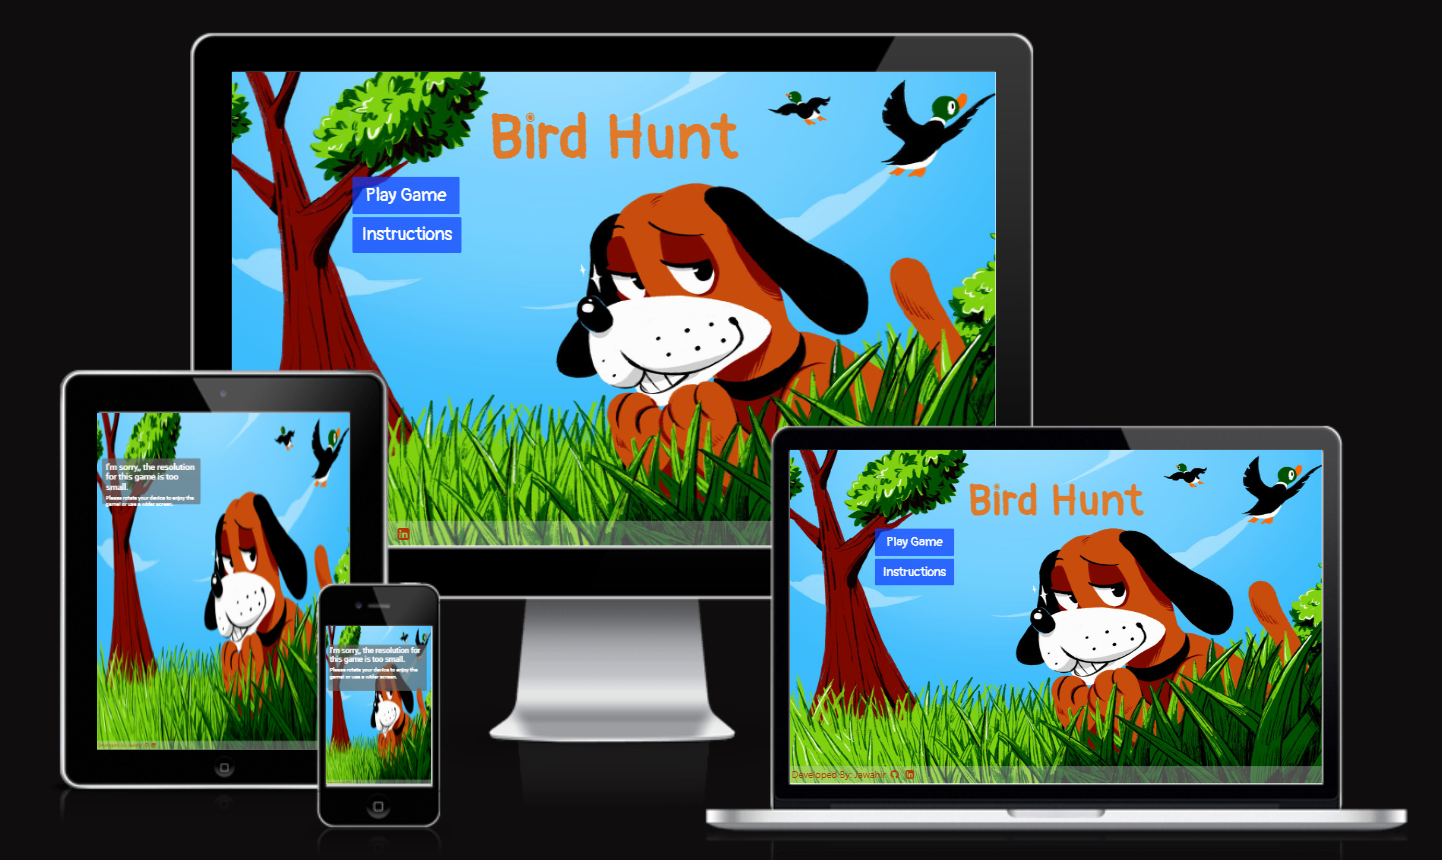
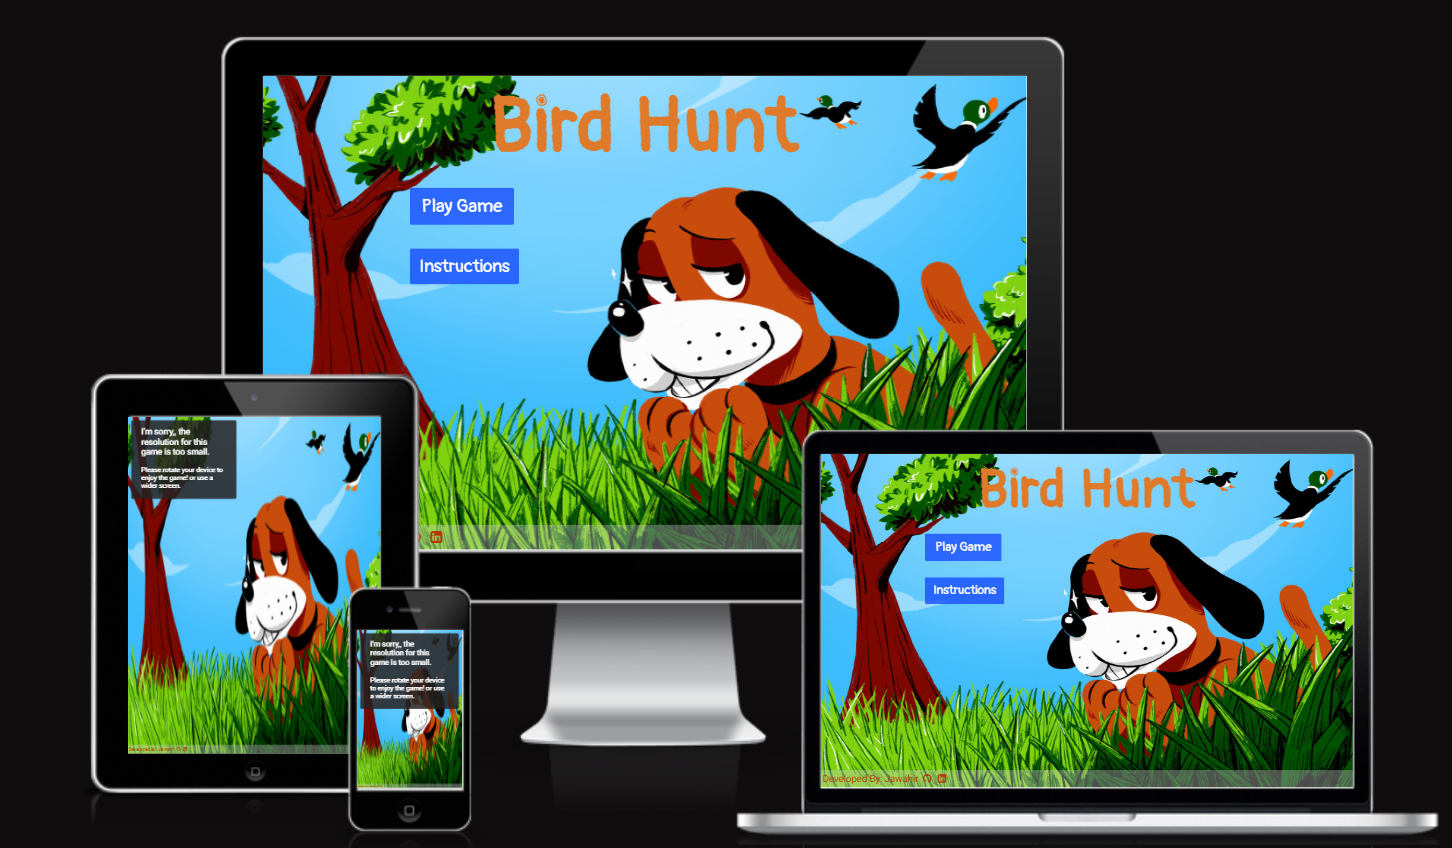
updating readm file

diff --git a/index.html b/index.html
@@ -8,8 +8,6 @@
   <!-- Font Awesome CDN -->
   <link rel="stylesheet" href="https://maxcdn.bootstrapcdn.com/font-awesome/4.7.0/css/font-awesome.min.css"
     type="text/css">
-  <link href="https://cdn.jsdelivr.net/npm/bootstrap@5.3.0-alpha3/dist/css/bootstrap.min.css" rel="stylesheet"
-    integrity="sha384-KK94CHFLLe+nY2dmCWGMq91rCGa5gtU4mk92HdvYe+M/SXH301p5ILy+dN9+nJOZ" crossorigin="anonymous">
   <link href="https://cdn.jsdelivr.net/npm/bootstrap@5.2.3/dist/css/bootstrap.min.css" rel="stylesheet">
   <script src="https://cdn.jsdelivr.net/npm/bootstrap@5.2.3/dist/js/bootstrap.bundle.min.js"></script>
   <link rel="stylesheet" href="assets/css/style.css">
@@ -19,9 +17,11 @@
 <body class="bg-main-page">
 
 
-  <div class="mobiles"><p class="h3">I'm sorry,, the resolution for this game is too small.
+  <div class="mobiles"><p class="h3">I'm sorry, The resolution for this game is too small 
+    for your current screen size. 
     <i class="fa fa-sad-tear" aria-hidden="true"></i></p>
-    <p class="h5">Please rotate your device to enjoy the game! or use a wider screen.</p>
+    <p class="h5">To enjoy the game, please rotate your device to 
+      landscape mode or use a wider screen.</p>
   </div>
 
   <!-- Home Page -->

diff --git a/README.md b/README.md
@@ -53,6 +53,10 @@ Bird Hunt is a fun and challenging game where you can test your shooting skills.
   There is also a timer with hourglass on it to remind the user that he only have _25sec_  to finish the game.
    ![game-page](/assets/docs/game_page.png)
 
+   - **Game instructions**
+  When the player click on Instruction button a pop up box will appear ont he screen to show the player the rules of the game.
+  ![modal box](assets/docs/modal.png)
+
    - **Result Box**
   When the player finishes all the bullets, a small box will pop up on the screen showing the player's final score and a comment regarding his score, underneath there is a button for the player tp play the game again.
   ![Result box](assets/docs/resultbox.png)
@@ -138,7 +142,8 @@ For the testing documentations, please chick [TEST.md](/TEST.md)
 # **Credits**
 - ## **Content**
     1. The icons in the website were from [Font Awesome](https://fontawesome.com)
-    2. The footer code is edited using the footer sections from https://www.w3schools.com/bootstrap5/
+    2. The hourglass code from http://www.w3schools.com
+    3. The footer code is edited using the footer sections from https://www.w3schools.com/bootstrap5/
 
 - ## **Media**
      The images of the theme game background in the Home page, the background image of the game page,  birds and animals were from google image.
